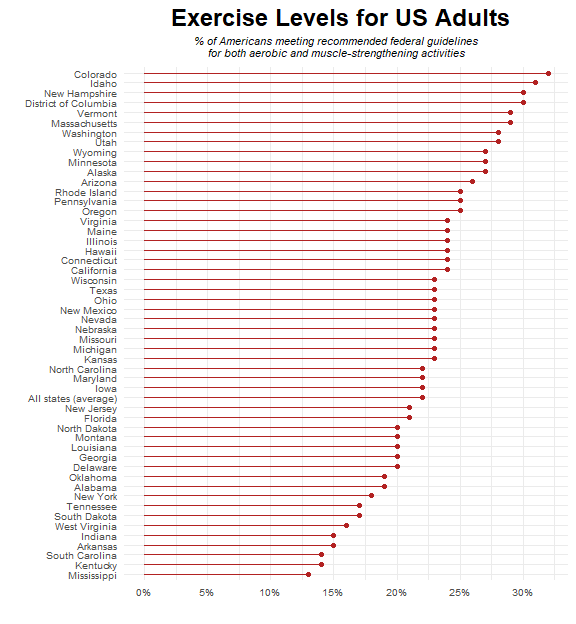
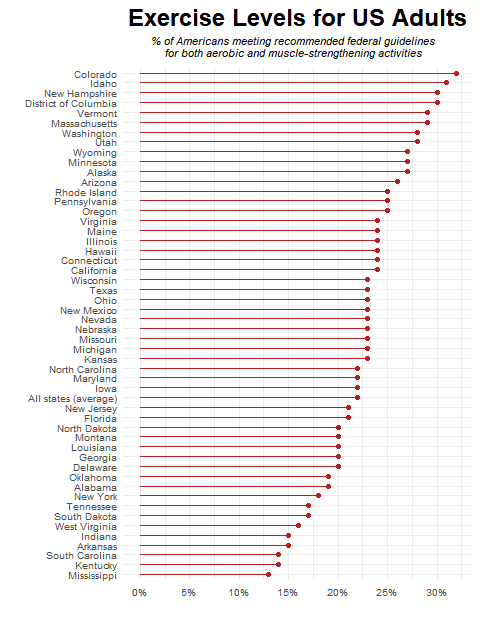
edit files

diff --git a/week_16/tidytuesday_week16.md b/week_16/tidytuesday_week16.md
@@ -49,13 +49,13 @@ exercise_dat %>%
 ```
 
     ## # A tibble: 5 x 3
-    ##   state      category       value
-    ##   <fct>      <chr>          <dbl>
-    ## 1 New Mexico men_working    0.290
-    ## 2 Oregon     men_working    0.3  
-    ## 3 Washington women          0.26 
-    ## 4 Alabama    men_nonworking 0.23 
-    ## 5 New Mexico women_working  0.21
+    ##   state          category       value
+    ##   <fct>          <chr>          <dbl>
+    ## 1 Georgia        men_nonworking  0.21
+    ## 2 South Carolina adults          0.14
+    ## 3 Colorado       women_working   0.33
+    ## 4 Georgia        men             0.27
+    ## 5 Mississippi    women           0.09
 
 EDA
 ---
@@ -98,7 +98,7 @@ exercise_dat %>%
   coord_flip()
 ```
 
-![](tidytuesday_week16_files/figure-markdown_github/unnamed-chunk-3-1.png)
+<img src="tidytuesday_week16_files/figure-markdown_github/unnamed-chunk-3-1.png" style="display: block; margin: auto;" />
 
 ### exercise levels by gender
 
@@ -147,7 +147,7 @@ exercise_dat %>%
         axis.text.x = element_text(size = 7.5)) 
 ```
 
-![](tidytuesday_week16_files/figure-markdown_github/unnamed-chunk-4-1.png)
+<img src="tidytuesday_week16_files/figure-markdown_github/unnamed-chunk-4-1.png" style="display: block; margin: auto;" />
 
 ### exericise levels for working men and women
 
@@ -196,7 +196,7 @@ exercise_dat %>%
         axis.text.x = element_text(size = 7.5))
 ```
 
-![](tidytuesday_week16_files/figure-markdown_github/unnamed-chunk-5-1.png)
+<img src="tidytuesday_week16_files/figure-markdown_github/unnamed-chunk-5-1.png" style="display: block; margin: auto;" />
 
 ### exercise levels for non-working men and non-working women
 
@@ -246,4 +246,4 @@ exercise_dat %>%
         axis.text.x = element_text(size = 7.5))
 ```
 
-![](tidytuesday_week16_files/figure-markdown_github/unnamed-chunk-6-1.png)
+<img src="tidytuesday_week16_files/figure-markdown_github/unnamed-chunk-6-1.png" style="display: block; margin: auto;" />
